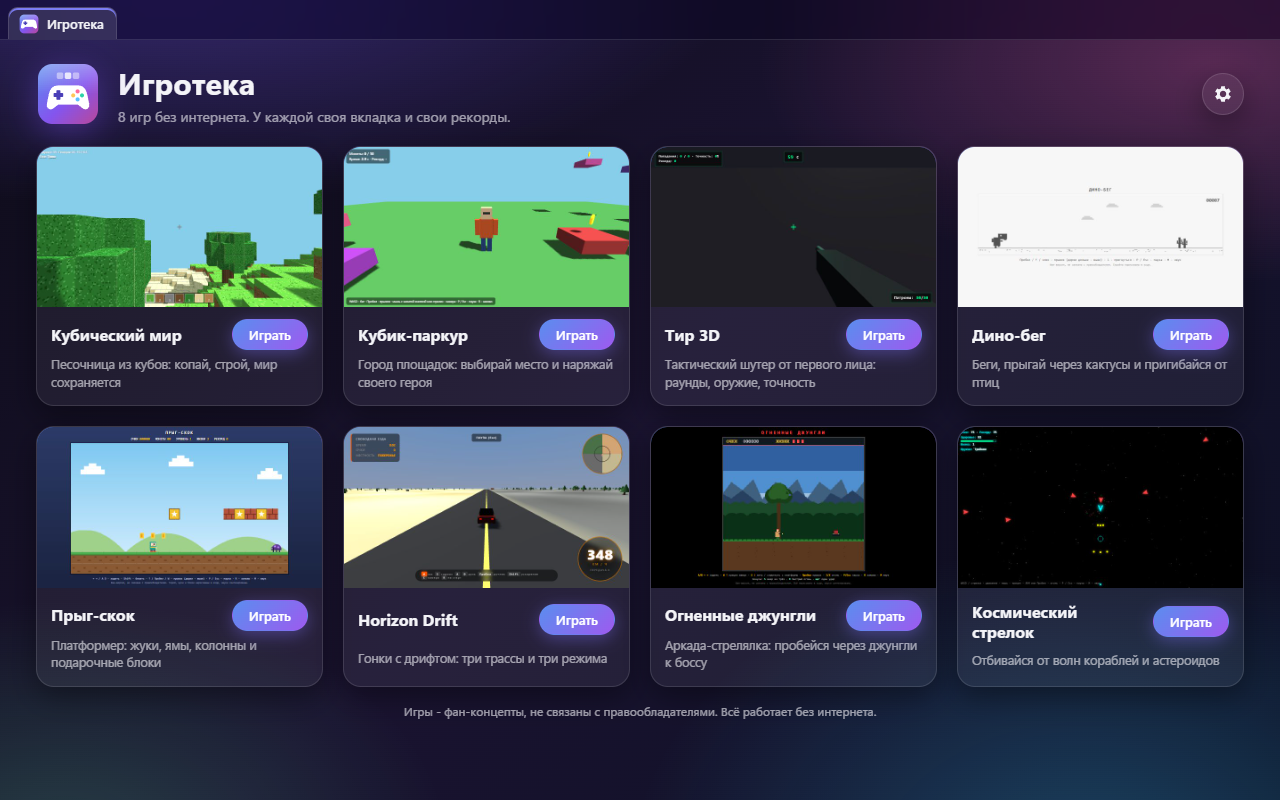
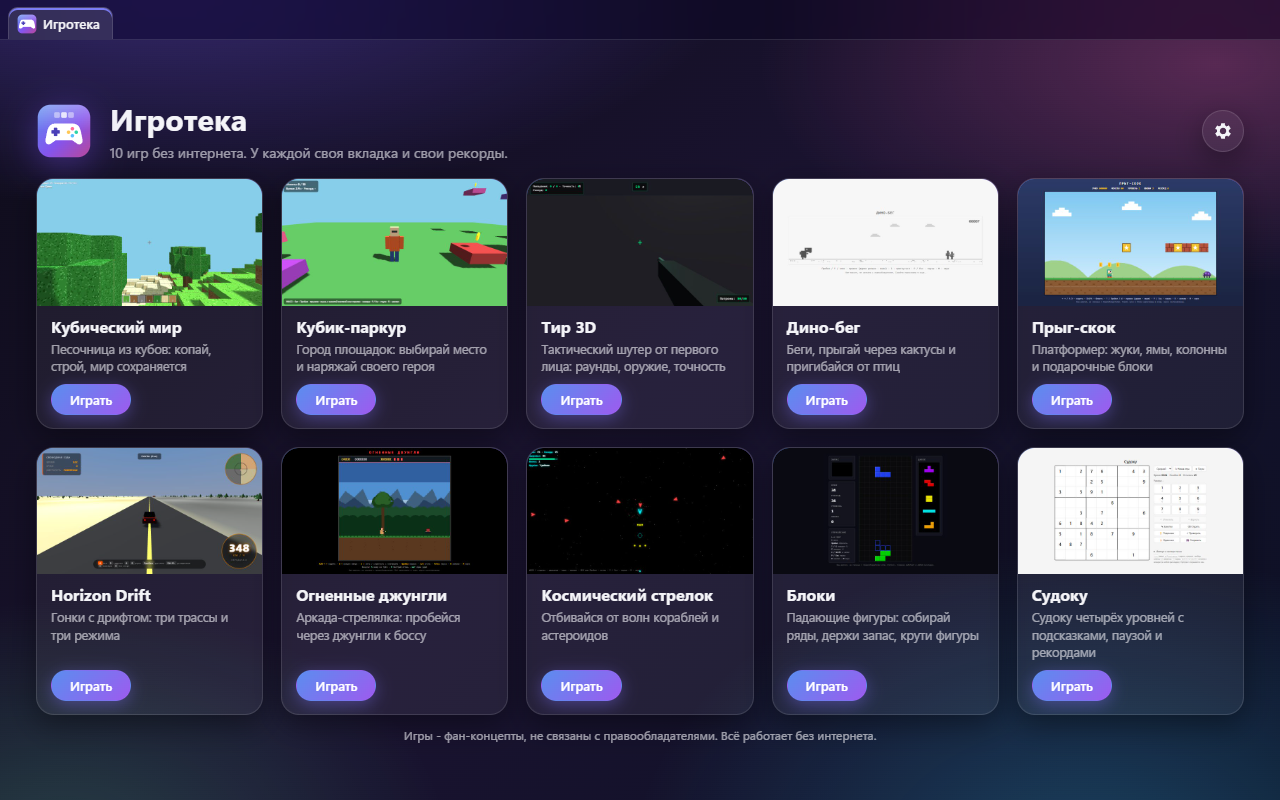
Игротека: десять карточек в два ряда по пять, имя во всю ширину карточки и кнопка под описанием; края прокрученной полосы вкладок растворяются; светлая дымка под вопросом в светлой теме; кадры README пересняты

diff --git a/app/renderer/style.css b/app/renderer/style.css
@@ -25,6 +25,8 @@
   --danger-bg: rgba(255, 91, 110, 0.14);
   --danger-border: rgba(255, 91, 110, 0.45);
   --scrim: rgba(5, 4, 12, 0.35);
+  --modal-scrim: rgba(5, 4, 12, 0.55);
+  --shot-filter: blur(6px) brightness(0.55);
   --app-bg:
     radial-gradient(80% 60% at 12% -10%, rgba(120, 90, 255, 0.45), transparent 60%),
     radial-gradient(65% 50% at 95% 8%, rgba(255, 100, 180, 0.28), transparent 55%),
@@ -51,6 +53,9 @@
   --danger-border: rgba(176, 30, 52, 0.45);
   /* Под настройками светлой темы - светлая дымка, а не серое затемнение. */
   --scrim: rgba(236, 234, 246, 0.55);
+  /* Под вопросом в светлой теме - светлая дымка над размытым снимком, а не серое пятно. */
+  --modal-scrim: rgba(236, 234, 246, 0.5);
+  --shot-filter: blur(6px) brightness(1.05) saturate(0.8);
   --app-bg:
     radial-gradient(80% 60% at 12% -10%, rgba(140, 120, 255, 0.35), transparent 60%),
     radial-gradient(65% 50% at 95% 8%, rgba(255, 140, 200, 0.28), transparent 55%),
@@ -107,6 +112,11 @@ button:focus-visible, select:focus-visible, input:focus-visible { outline: 2px s
   scrollbar-width: none;
   position: relative; /* offsetLeft вкладок - от начала полосы */
 }
+/* Полоса прокручена: края вкладок, ушедших за край, растворяются, а не обрезаются
+   на полуслове. */
+#tabs.scrolled-left { -webkit-mask-image: linear-gradient(to right, transparent 0, #000 28px); }
+#tabs.scrolled-right { -webkit-mask-image: linear-gradient(to left, transparent 0, #000 28px); }
+#tabs.scrolled-left.scrolled-right { -webkit-mask-image: linear-gradient(to right, transparent 0, #000 28px, #000 calc(100% - 28px), transparent 100%); }
 #bar.crowded .tab.home .product { display: none; }
 #bar.crowded .tab.home { padding-right: 8px; }
 #tabs::-webkit-scrollbar { display: none; }
@@ -137,7 +147,7 @@ button:focus-visible, select:focus-visible, input:focus-visible { outline: 2px s
   color: var(--text);
   box-shadow: inset 0 2px 0 var(--accent);
 }
-.tab.home { flex: 0 0 auto; max-width: none; padding-right: 12px; font-weight: 600; }
+.tab.home { flex: 0 0 auto; min-width: 0; max-width: none; padding-right: 12px; font-weight: 600; }
 .tab .logo { width: 20px; height: 20px; }
 .tab .icon {
   width: 18px;
@@ -226,10 +236,10 @@ button:focus-visible, select:focus-visible, input:focus-visible { outline: 2px s
 }
 
 .card {
-  /* Картинка, строка имени, описание - строки общей сетки: у карточек одного ряда имена и
+  /* Картинка, имя, описание, кнопка - строки общей сетки: у карточек одного ряда имена и
      описания на одной высоте, даже если одно имя переносится. */
   display: grid;
-  grid-row: span 3;
+  grid-row: span 4;
   grid-template-rows: subgrid;
   row-gap: 0;
   border-radius: var(--radius);
@@ -251,12 +261,14 @@ button:focus-visible, select:focus-visible, input:focus-visible { outline: 2px s
 /* Имя и «Играть» в одну строку, описание под ними: длинное имя переносится, а не
    обрезается многоточием. Открытая игра - точка перед именем и рамка, картинку ничто не
    закрывает. */
-.card .head { display: flex; align-items: flex-start; gap: 10px; padding: 11px 14px 4px; }
+/* Имя во всю ширину карточки (кнопка под описанием), чтобы при пяти карточках в ряд
+   имя не рвалось посередине слова. */
+.card .head { padding: 11px 14px 4px; }
 /* Имя с первой строки: у соседних карточек имена начинаются на одной высоте. */
-.card h2 { padding-top: 4px; }
-.card h2 { flex: 1; margin: 0; font-size: 16px; font-weight: 650; line-height: 1.25; min-width: 0; }
-.card .desc { margin: 0; padding: 0 14px 13px; font-size: 12.5px; color: var(--text-dim); line-height: 1.4; }
-.card .play { flex: none; padding: 6px 16px; }
+.card h2 { margin: 0; font-size: 16px; font-weight: 650; line-height: 1.25; min-width: 0; }
+.card .desc { margin: 0; padding: 0 14px 8px; font-size: 12.5px; color: var(--text-dim); line-height: 1.4; }
+.card .actions { padding: 0 14px 13px; }
+.card .play { padding: 6px 18px; }
 .card .open-mark {
   display: inline-block;
   width: 8px;
@@ -402,7 +414,7 @@ kbd {
   display: grid;
   place-items: center;
   overflow: hidden; /* размытый снимок игры не заходит на полосу вкладок */
-  background: rgba(5, 4, 12, 0.55);
+  background: var(--modal-scrim);
   z-index: 30;
 }
 #modal.fullscreen { inset: 0; }
@@ -417,7 +429,7 @@ kbd {
   width: 100%;
   height: 100%;
   object-fit: cover;
-  filter: blur(6px) brightness(0.55);
+  filter: var(--shot-filter);
   transform: scale(1.02);
 }
 #modal-shot[hidden] { display: none; }

diff --git a/app/renderer/renderer.js b/app/renderer/renderer.js
@@ -64,8 +64,16 @@ function renderTabs() {
     if (act.offsetLeft < box.scrollLeft) box.scrollLeft = act.offsetLeft;
     else if (act.offsetLeft + act.offsetWidth > box.scrollLeft + box.clientWidth) box.scrollLeft = act.offsetLeft + act.offsetWidth - box.clientWidth;
   }
+  edges();
   // Много вкладок - у домашней остаётся только значок, имя игр важнее.
   $('#bar').classList.toggle('crowded', state.tabs.open.length >= 6);
+}
+
+// Какие края полосы вкладок сейчас за краем (для растворения краёв в CSS).
+function edges() {
+  const box = $('#tabs');
+  box.classList.toggle('scrolled-left', box.scrollLeft > 1);
+  box.classList.toggle('scrolled-right', box.scrollLeft + box.clientWidth < box.scrollWidth - 1);
 }
 
 // --- домашний экран ------------------------------------------------------------------
@@ -79,9 +87,9 @@ function renderGrid() {
     const card = el('article', { class: 'card', 'data-id': g.id, tabindex: '0' },
       el('div', { class: 'shot' }, img(thumb(g.id))),
       el('div', { class: 'head' },
-        el('h2', {}, el('span', { class: 'open-mark', title: 'Игра открыта во вкладке', hidden: '' }), g.name),
-        play),
-      el('p', { class: 'desc', text: g.desc }));
+        el('h2', {}, el('span', { class: 'open-mark', title: 'Игра открыта во вкладке', hidden: '' }), g.name)),
+      el('p', { class: 'desc', text: g.desc }),
+      el('div', { class: 'actions' }, play));
     card.addEventListener('click', () => api.open(g.id));
     card.addEventListener('keydown', (e) => { if (e.key === 'Enter' || e.key === ' ') { e.preventDefault(); api.open(g.id); } });
     return card;
@@ -239,6 +247,8 @@ function apply(s) {
   $('.tab.home').addEventListener('click', () => api.activate('home'));
   $('#crashed .btn').addEventListener('click', () => api.revive(state.tabs.active));
   // Колесо мыши над полосой вкладок прокручивает её вбок.
+  $('#tabs').addEventListener('scroll', edges);
+  window.addEventListener('resize', edges);
   $('#tabs').addEventListener('wheel', (e) => { if (e.deltaY) { e.currentTarget.scrollLeft += e.deltaY; e.preventDefault(); } }, { passive: false });
   renderGrid();
   wireSettings();
